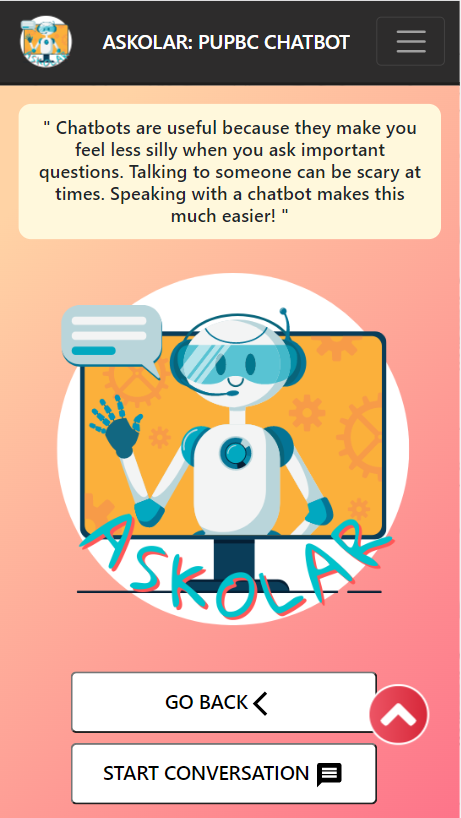
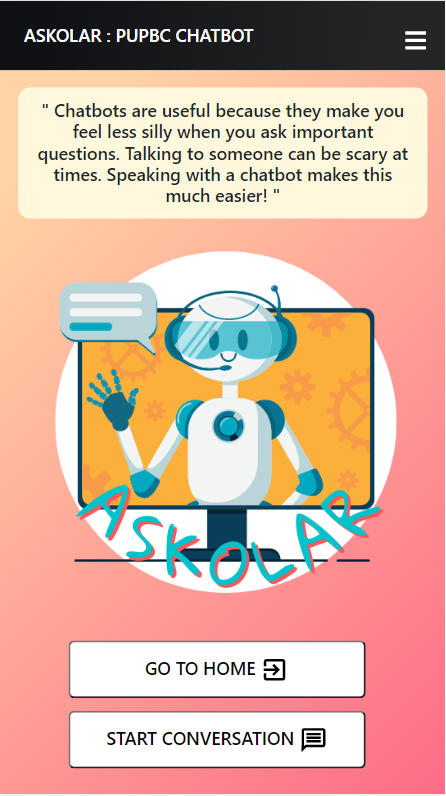
change features

diff --git a/src/components/AppDownload.jsx b/src/components/AppDownload.jsx
@@ -3,7 +3,6 @@ import React from 'react';
 import Button from 'react-bootstrap/Button';
 import Card from 'react-bootstrap/Card';
 import bot3 from '../assets/images/bot3.png';
-import DividerText from '../components/DividerText';
 import Gallery from '../components/AppGallery';
 
 
@@ -62,12 +61,6 @@ const AppDownload = () => {
 
                                         </ul>
                                     </tr>
-                                    <tr>
-                                        <th>APP SCREENSHOTS</th>
-                                    </tr>
-                                    <tr>
-                                        <Gallery />
-                                    </tr>
 
                                 </table>
                             </Card.Body>
@@ -79,7 +72,14 @@ const AppDownload = () => {
                 <div class="col-home">
                     <div className='chatCard'>
                         <Card style={{ width: '100%' }} className='divSection'>
-                            <DividerText />
+                        <table>
+                            <tr>
+                                <th>APP SCREENSHOTS</th>
+                            </tr>
+                            <tr>
+                                <Gallery />
+                            </tr>
+                        </table>
                         </Card>
                     </div>
                 </div>

diff --git a/src/App.css b/src/App.css
@@ -197,12 +197,12 @@ nav {
  }
 }
 /* *********** HOME PAGE*********** */
+
 .homepage {
   background-image: linear-gradient(135deg, #FFD3A5 10%, #FD6585 100%);
   text-align: center;
   margin-top: 30px 10px 30px 10px;
   padding: 15px 15px;
-  height: 100vh;
   width: 100%;
 }
 
@@ -446,6 +446,10 @@ li {
 
 
 /************* ANNOUNCEMENTS ************* */
+.announce{
+  overflow-y: scroll;
+  height: 65vh;
+}
 .pageHeader {
   font-weight: 700;
   background-color: #c5283d;
@@ -467,13 +471,9 @@ a.moreLink {
 }
 
 /* **************************** EVENTS *************************** */
-.container {
-  padding-top: 20px;
-  width: 80%;
-}
 
 .contactInfo {
-  width: 100%;
+  width: 80%;
   background-color: cornsilk;
   padding: 20px 35px;
   border: 1px solid lightgrey;
@@ -642,8 +642,6 @@ tr {
 /* ***************** ABOUT APP ********************* */
 
 .about {
-  font-size: 16px;
-  font-weight: 700;
   padding: 10px;
   text-align: center;
   border: 2px solid black;
@@ -655,7 +653,7 @@ tr {
 }
 
 .appInfo p {
-  font-size: 15px;
+  font-size: 14px;
 }
 
 @media screen and (max-width: 600px) {
@@ -669,7 +667,7 @@ tr {
 }
 
 .divSection {
-  padding: 20px 25px;
+  padding: 15px 20px;
 }
 
 .appLogo {

diff --git a/src/components/DividerText.jsx b/src/components/DividerText.jsx
@@ -1,16 +1,7 @@
 import * as React from 'react';
-import { styled } from '@mui/material/styles';
 import Divider from '@mui/material/Divider';
 import Chip from '@mui/material/Chip';
 import { Check } from '@mui/icons-material';
-
-const Root = styled('div')(({ theme }) => ({
-    width: '100%',
-    ...theme.typography.body2,
-    '& > :not(style) + :not(style)': {
-        marginTop: theme.spacing(4),
-    },
-}));
 
 export default function DividerText() {
     const aboutUs = (
@@ -59,7 +50,6 @@ export default function DividerText() {
     );
 
     return (
-        <Root>
             <div className='aboutApp'>
                 <Divider textAlign='center' >
                     <h3 className='chipDivider'>
@@ -87,7 +77,6 @@ export default function DividerText() {
                 {disclamer}
             </div>
 
-        </Root>
     );
 
 }

diff --git a/src/components/ChatBot.jsx b/src/components/ChatBot.jsx
@@ -57,7 +57,7 @@ const options = {
     <div className='homepage' >
       <h4>" Chatbots are useful because they make you feel less silly when you ask important questions. Talking to someone can be scary at times. Speaking with a chatbot makes this much easier! "</h4>
       <div className='startChat'>
-        <img src={(bot3)} className='botImage' width='400px' alt="botAvatar" ></img>
+        <img src={(bot3)} className='botImage' width='350px' alt="botAvatar" ></img>
       </div>
       <Link to="/home">
         <button className='startBtn'>GO TO HOME <ExitToApp /></button>

diff --git a/src/pages/Events.jsx b/src/pages/Events.jsx
@@ -8,8 +8,10 @@ const Events = () => {
         <div classname="row-home" >
             <div class="col-home">
             <div className="pageHeader">EVENTS</div>
+                <div className='announce'>
                 <div class="card"> <Event1 /></div>
                 <div class="card"> <Event2 /></div>
+                </div>
             </div>
             <div class="col-home">
                 <div class="contactInfo">

diff --git a/src/pages/Home.jsx b/src/pages/Home.jsx
@@ -13,9 +13,11 @@ const Home = () => {
 
             <div class="col-home">
                 <div className="pageHeader">ANNOUNCEMENTS</div>
+                <div className='announce'>
                 <Post3 /><br />
                 <Post2 /><br />
                 <Post1 /><br />
+                </div>
             </div>
         </div>
     );

diff --git a/src/pages/About.jsx b/src/pages/About.jsx
@@ -4,7 +4,7 @@ import Card from 'react-bootstrap/Card';
 
 const About = () => {
     return (
-        <div className='container'>
+        <div>
             <div className="pageHeader">ABOUT THIS APP</div>
             <Card style={{ width: '100%' }} className='divSection'>
                 <DividerText />
